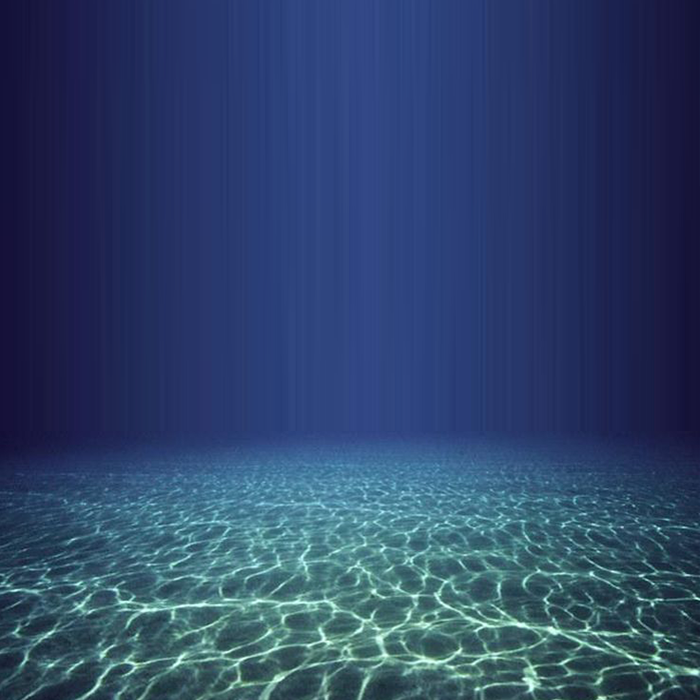
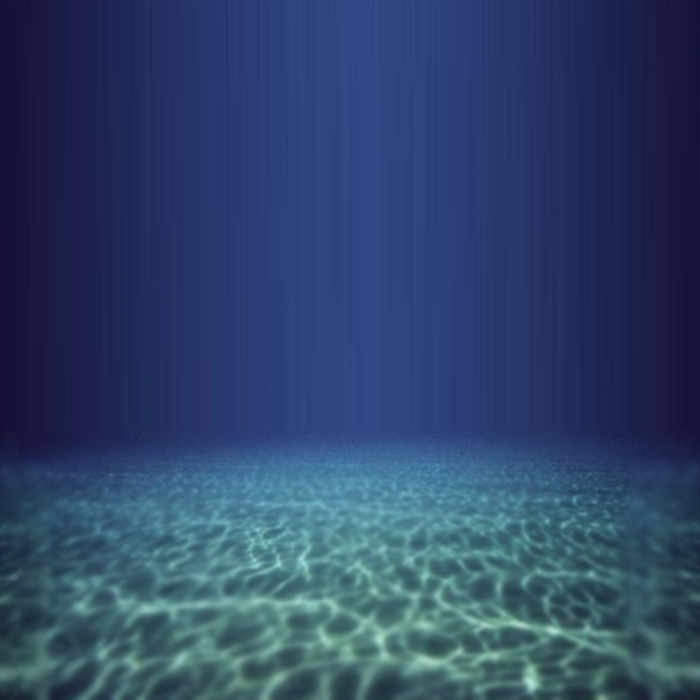
Submarine texture mapping all done, bubble done

diff --git a/t6/tp6ex1/MyBubble.js b/t6/tp6ex1/MyBubble.js
@@ -12,10 +12,14 @@ function MyBubble(scene, slices, stacks) {
 
  MyBubble.prototype.initBuffers = function() {
 	
- 	this.vertices = [];
- 	this.indices = [];
-	this.normals = [];
-	this.texCoords = [];
+ 	this.indices = [
+ 	];
+ 	this.vertices = [
+ 	];
+ 	this.normals = [
+ 	];
+ 	this.texCoords = [
+ 	];
 
 	var angle = 2 * Math.PI / (this.slices);
 	var angle_height = (Math.PI / 2)/this.stacks;
@@ -40,7 +44,7 @@ function MyBubble(scene, slices, stacks) {
 	this.normals.push(0, 0, -1);
 	
 	var n = this.slices + 1;
-	for (var stack = 0; stack < this.stacks - 1; stack++)
+	for (var stack = 0; stack < this.stacks ; stack++)
 	{
 		for (var slice = 0; slice < this.slices; slice++)
 		{
@@ -54,7 +58,7 @@ function MyBubble(scene, slices, stacks) {
 	for (var slice = -1; slice < this.slices; slice++)
 	{
 		this.vertices.push(Math.cos(slice * angle), Math.sin(slice * angle), 0);
-		this.normals.push(0, 0, 1);
+		this.normals.push(0, 0, -1);
 	}
 
 	for (var slice = 0; slice < this.slices; slice++)

diff --git a/t6/tp6ex1/MyBigBubble.js b/t6/tp6ex1/MyBigBubble.js
@@ -33,7 +33,7 @@ this.scene.scale(100,100,100);
 
 
 this.scene.pushMatrix();
-	//this.scene.rotate(Math.PI, 1,0,0);
+	//this.scene.rotate(-Math.PI/23, 0,0,11);
 	this.WaterAppearance.apply();
     this.bubble.display();
 this.scene.popMatrix();

diff --git a/t6/tp6ex1/MyTriangle.js b/t6/tp6ex1/MyTriangle.js
@@ -29,9 +29,9 @@ MyTriangle.prototype.initBuffers = function () {
 
    
     this.texCoords = [ 
-    	this.minS,this.maxT,
-    	this.maxS,this.maxT,
-    	this.minS,this.minT
+    	1,0,
+    	0,1,
+    	1,1,
     ];
 
 		

diff --git a/t6/tp6ex1/LightingScene.js b/t6/tp6ex1/LightingScene.js
@@ -374,9 +374,9 @@ this.popMatrix();
 
 this.pushMatrix();
 
-	this.translate(7.3,0,0);
+	this.translate(7.3,0.1,0.15);
 
-	this.scale(1/3,6,1/3);
+	this.scale(1/5,6,1/5);
 	
 	this.rotate(-Math.PI/2, 1,0,0 );
 
